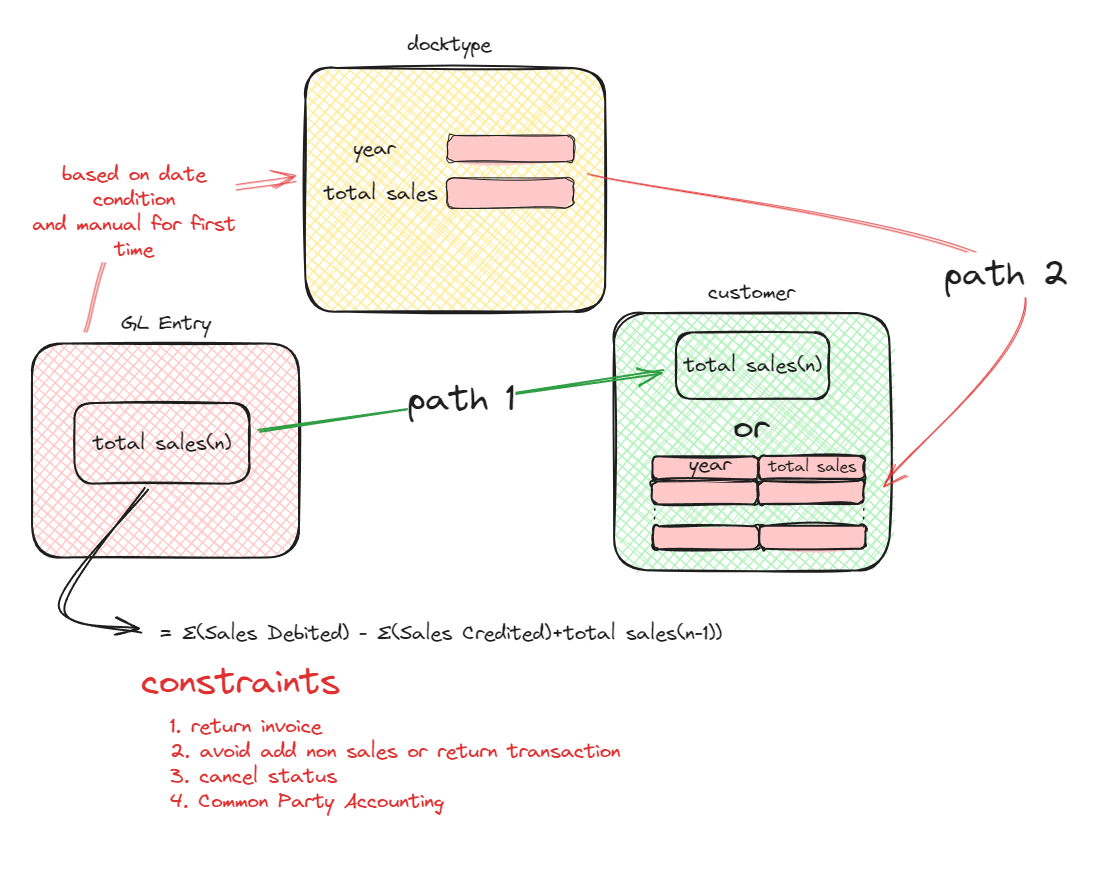
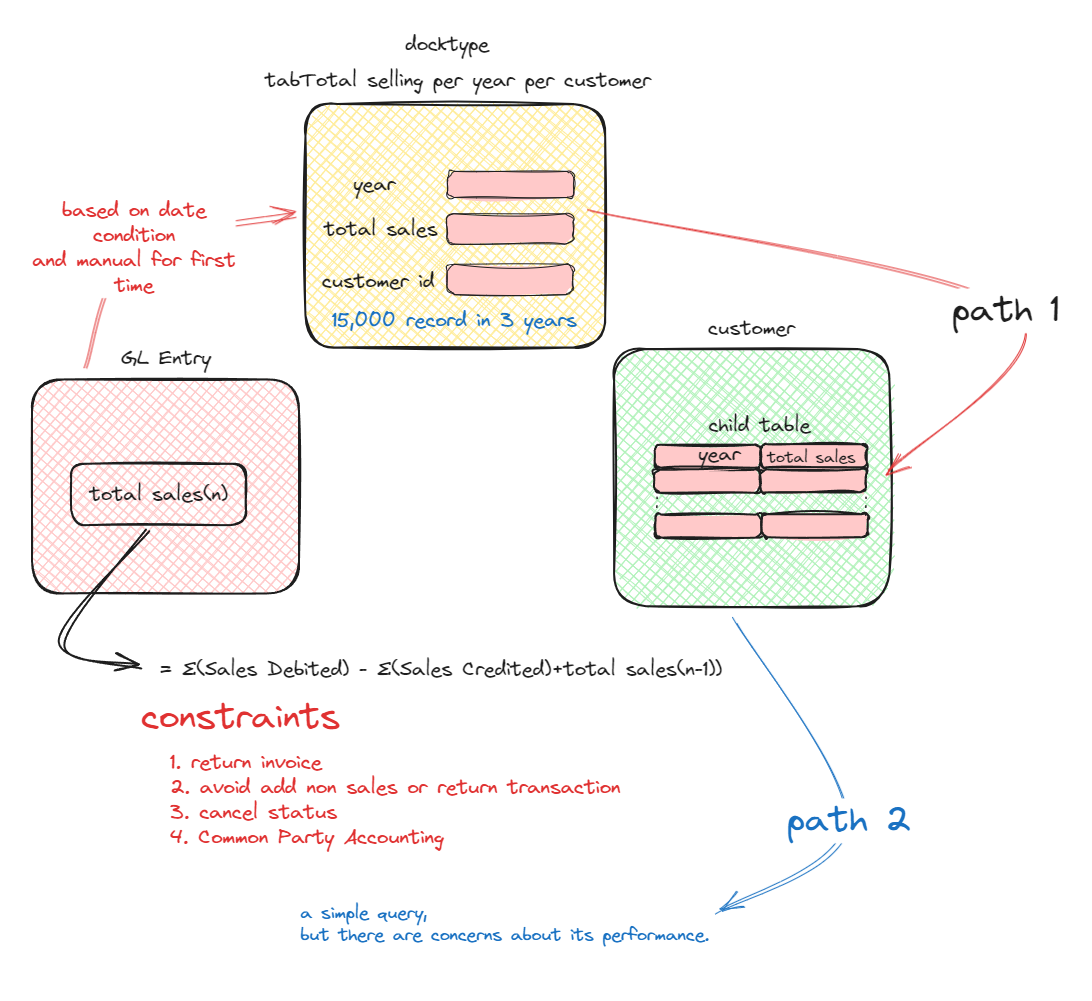
cahnge the pic

diff --git a/general_customization/slaesperyear/overrides/customer.py b/general_customization/slaesperyear/overrides/customer.py
@@ -1,0 +1,17 @@
+#overide gl entry file
+from frappe import _
+from erpnext.accounts.doctype.gl_entry.gl_entry import GLEntry
+
+class CustomGLEntry(GLEntry):
+
+    def before_insert(self):
+        pass
+    #bering total sales from last doc which fit the condition of customer and
+    #Voucher Type should be  sales or reture 
+
+
+    def after_insert(self):
+     # sum credit + debit +  total sales  from last doc
+
+        pass
+

diff --git a/general_customization/slaesperyear/overrides/gl_entry.py b/general_customization/slaesperyear/overrides/gl_entry.py
@@ -1,0 +1,17 @@
+#overide gl entry file
+from frappe import _
+from erpnext.accounts.doctype.gl_entry.gl_entry import GLEntry
+
+class CustomGLEntry(GLEntry):
+
+    def before_insert(self):
+        pass
+    #bering total sales from last doc which fit the condition of customer and
+    #Voucher Type should be  sales or reture 
+
+
+    def after_insert(self):
+     # sum credit + debit +  total sales  from last doc
+
+        pass
+

diff --git a/general_customization/hooks.py b/general_customization/hooks.py
@@ -228,3 +228,4 @@ override_doctype_class = {
 # 	"Logging DocType Name": 30  # days to retain logs
 # }
 
+fixtures = ["Custom Field"]
